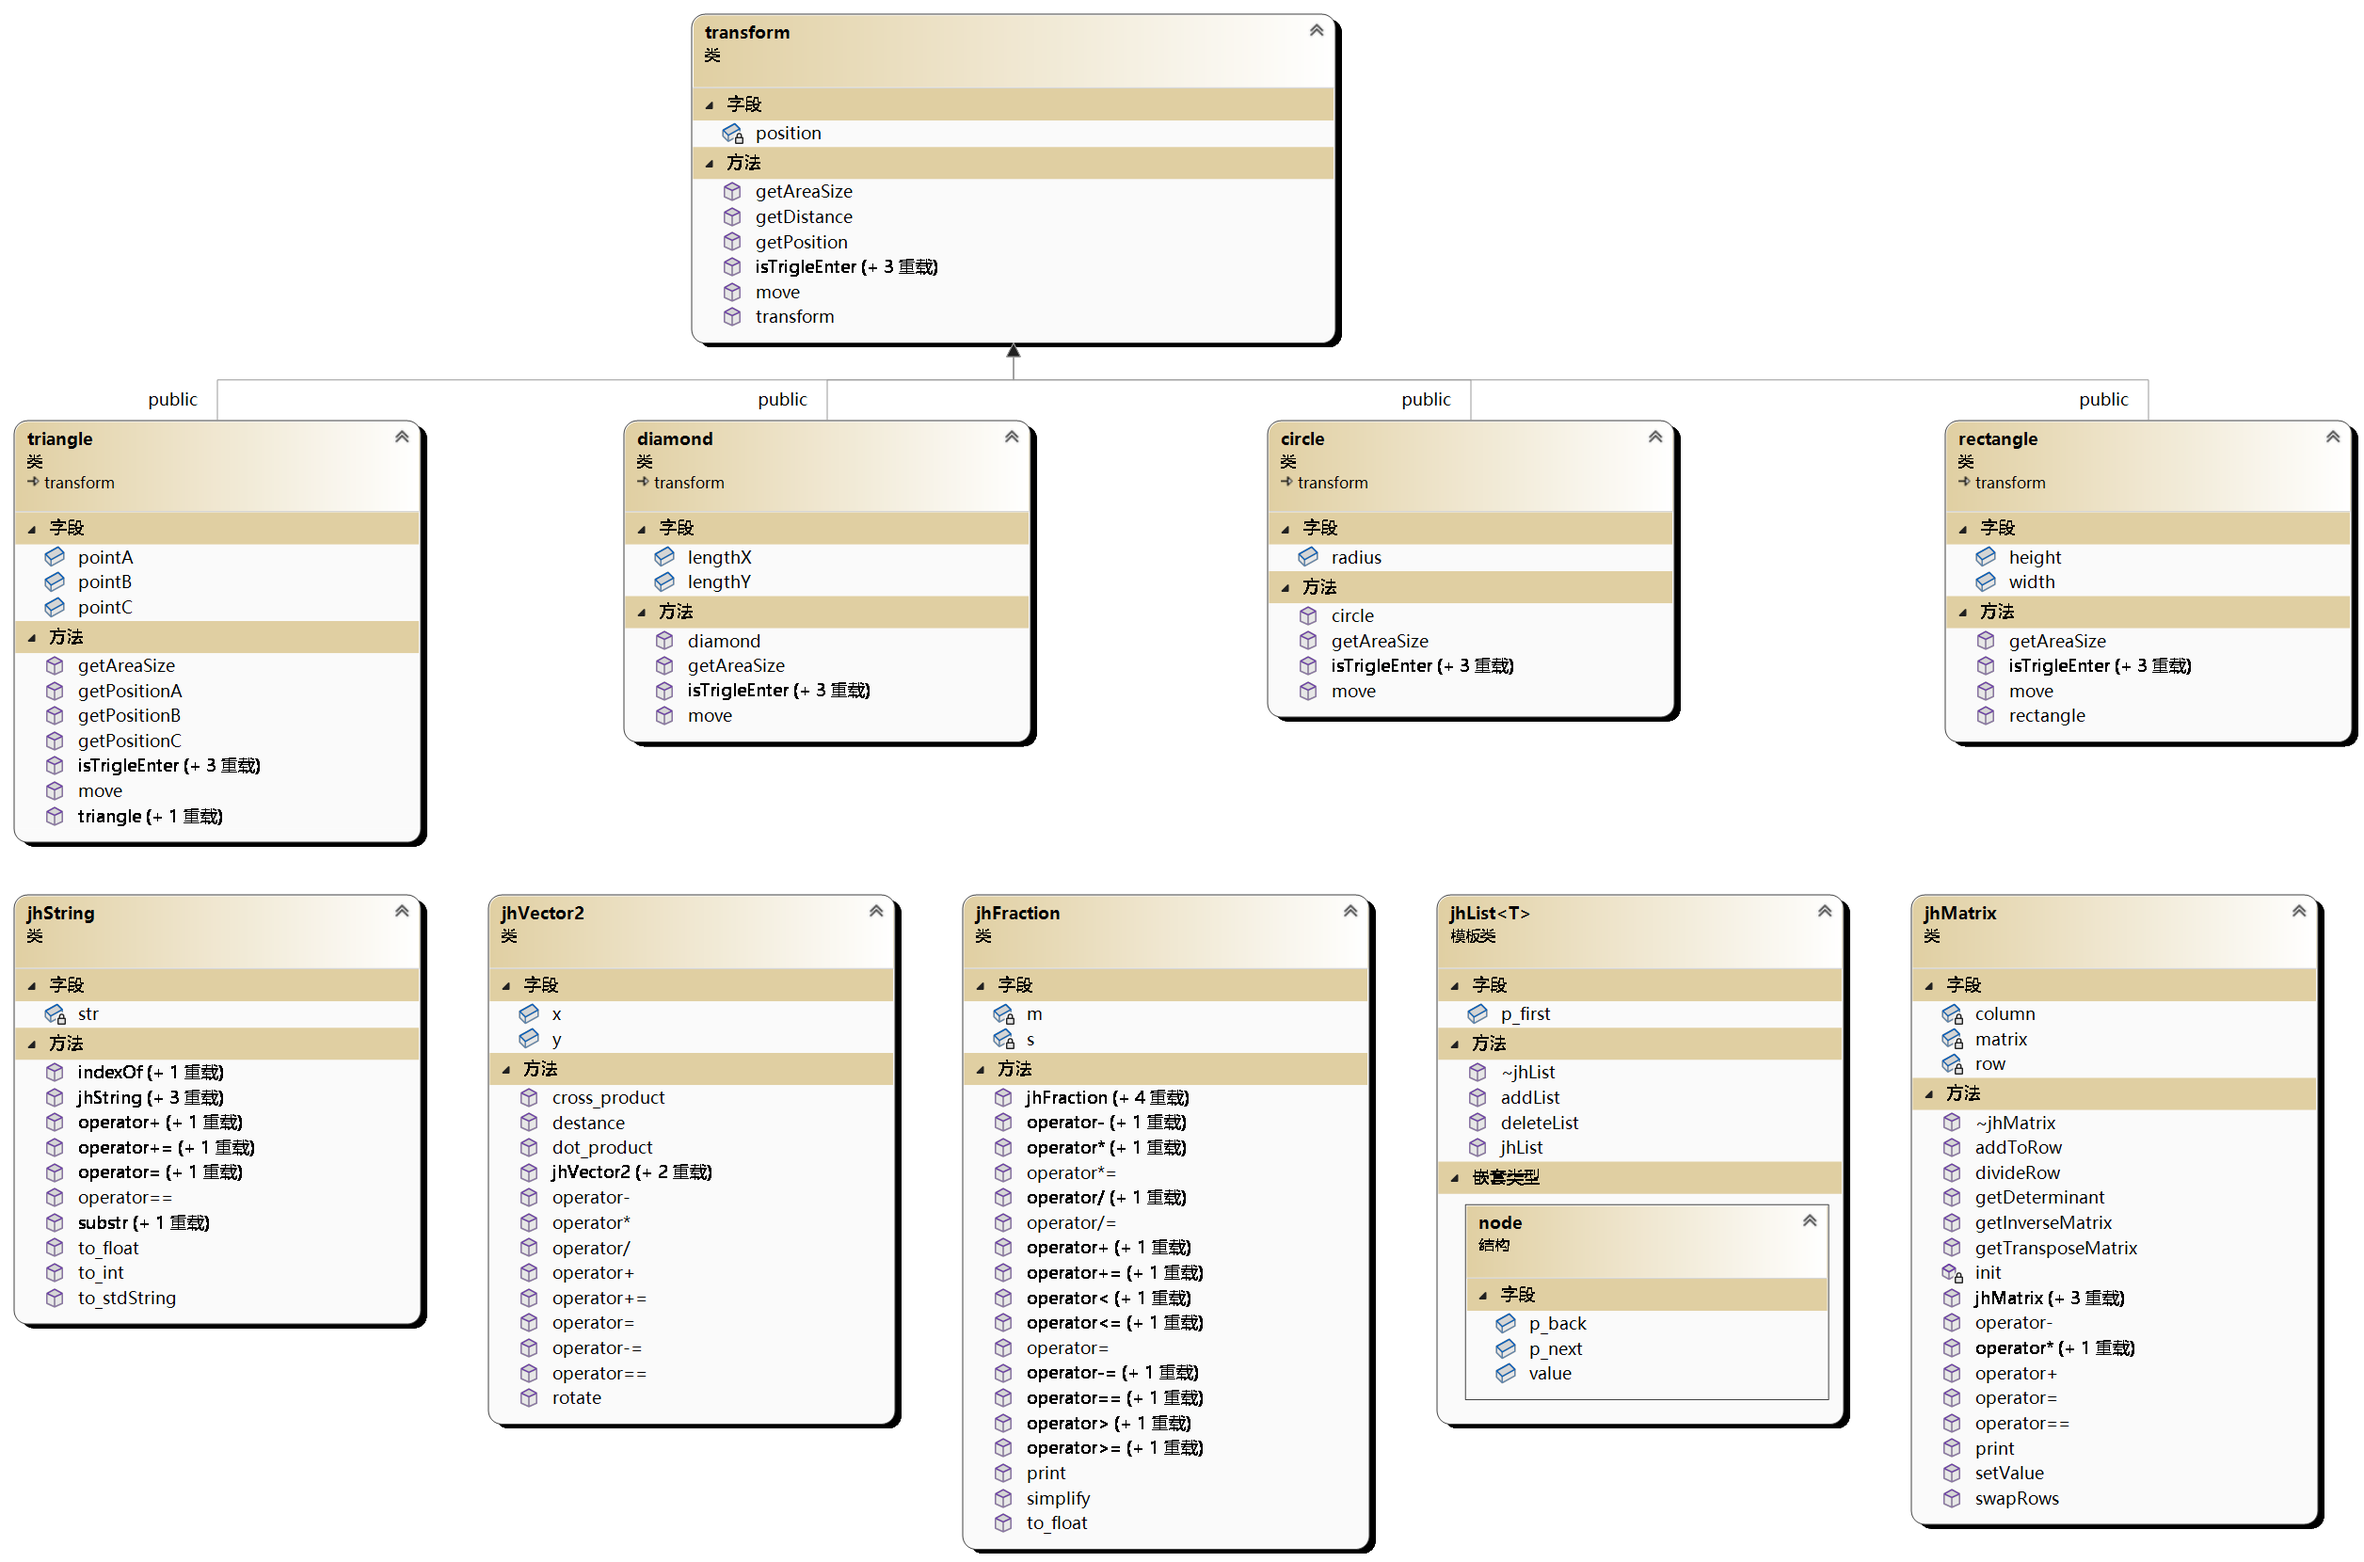
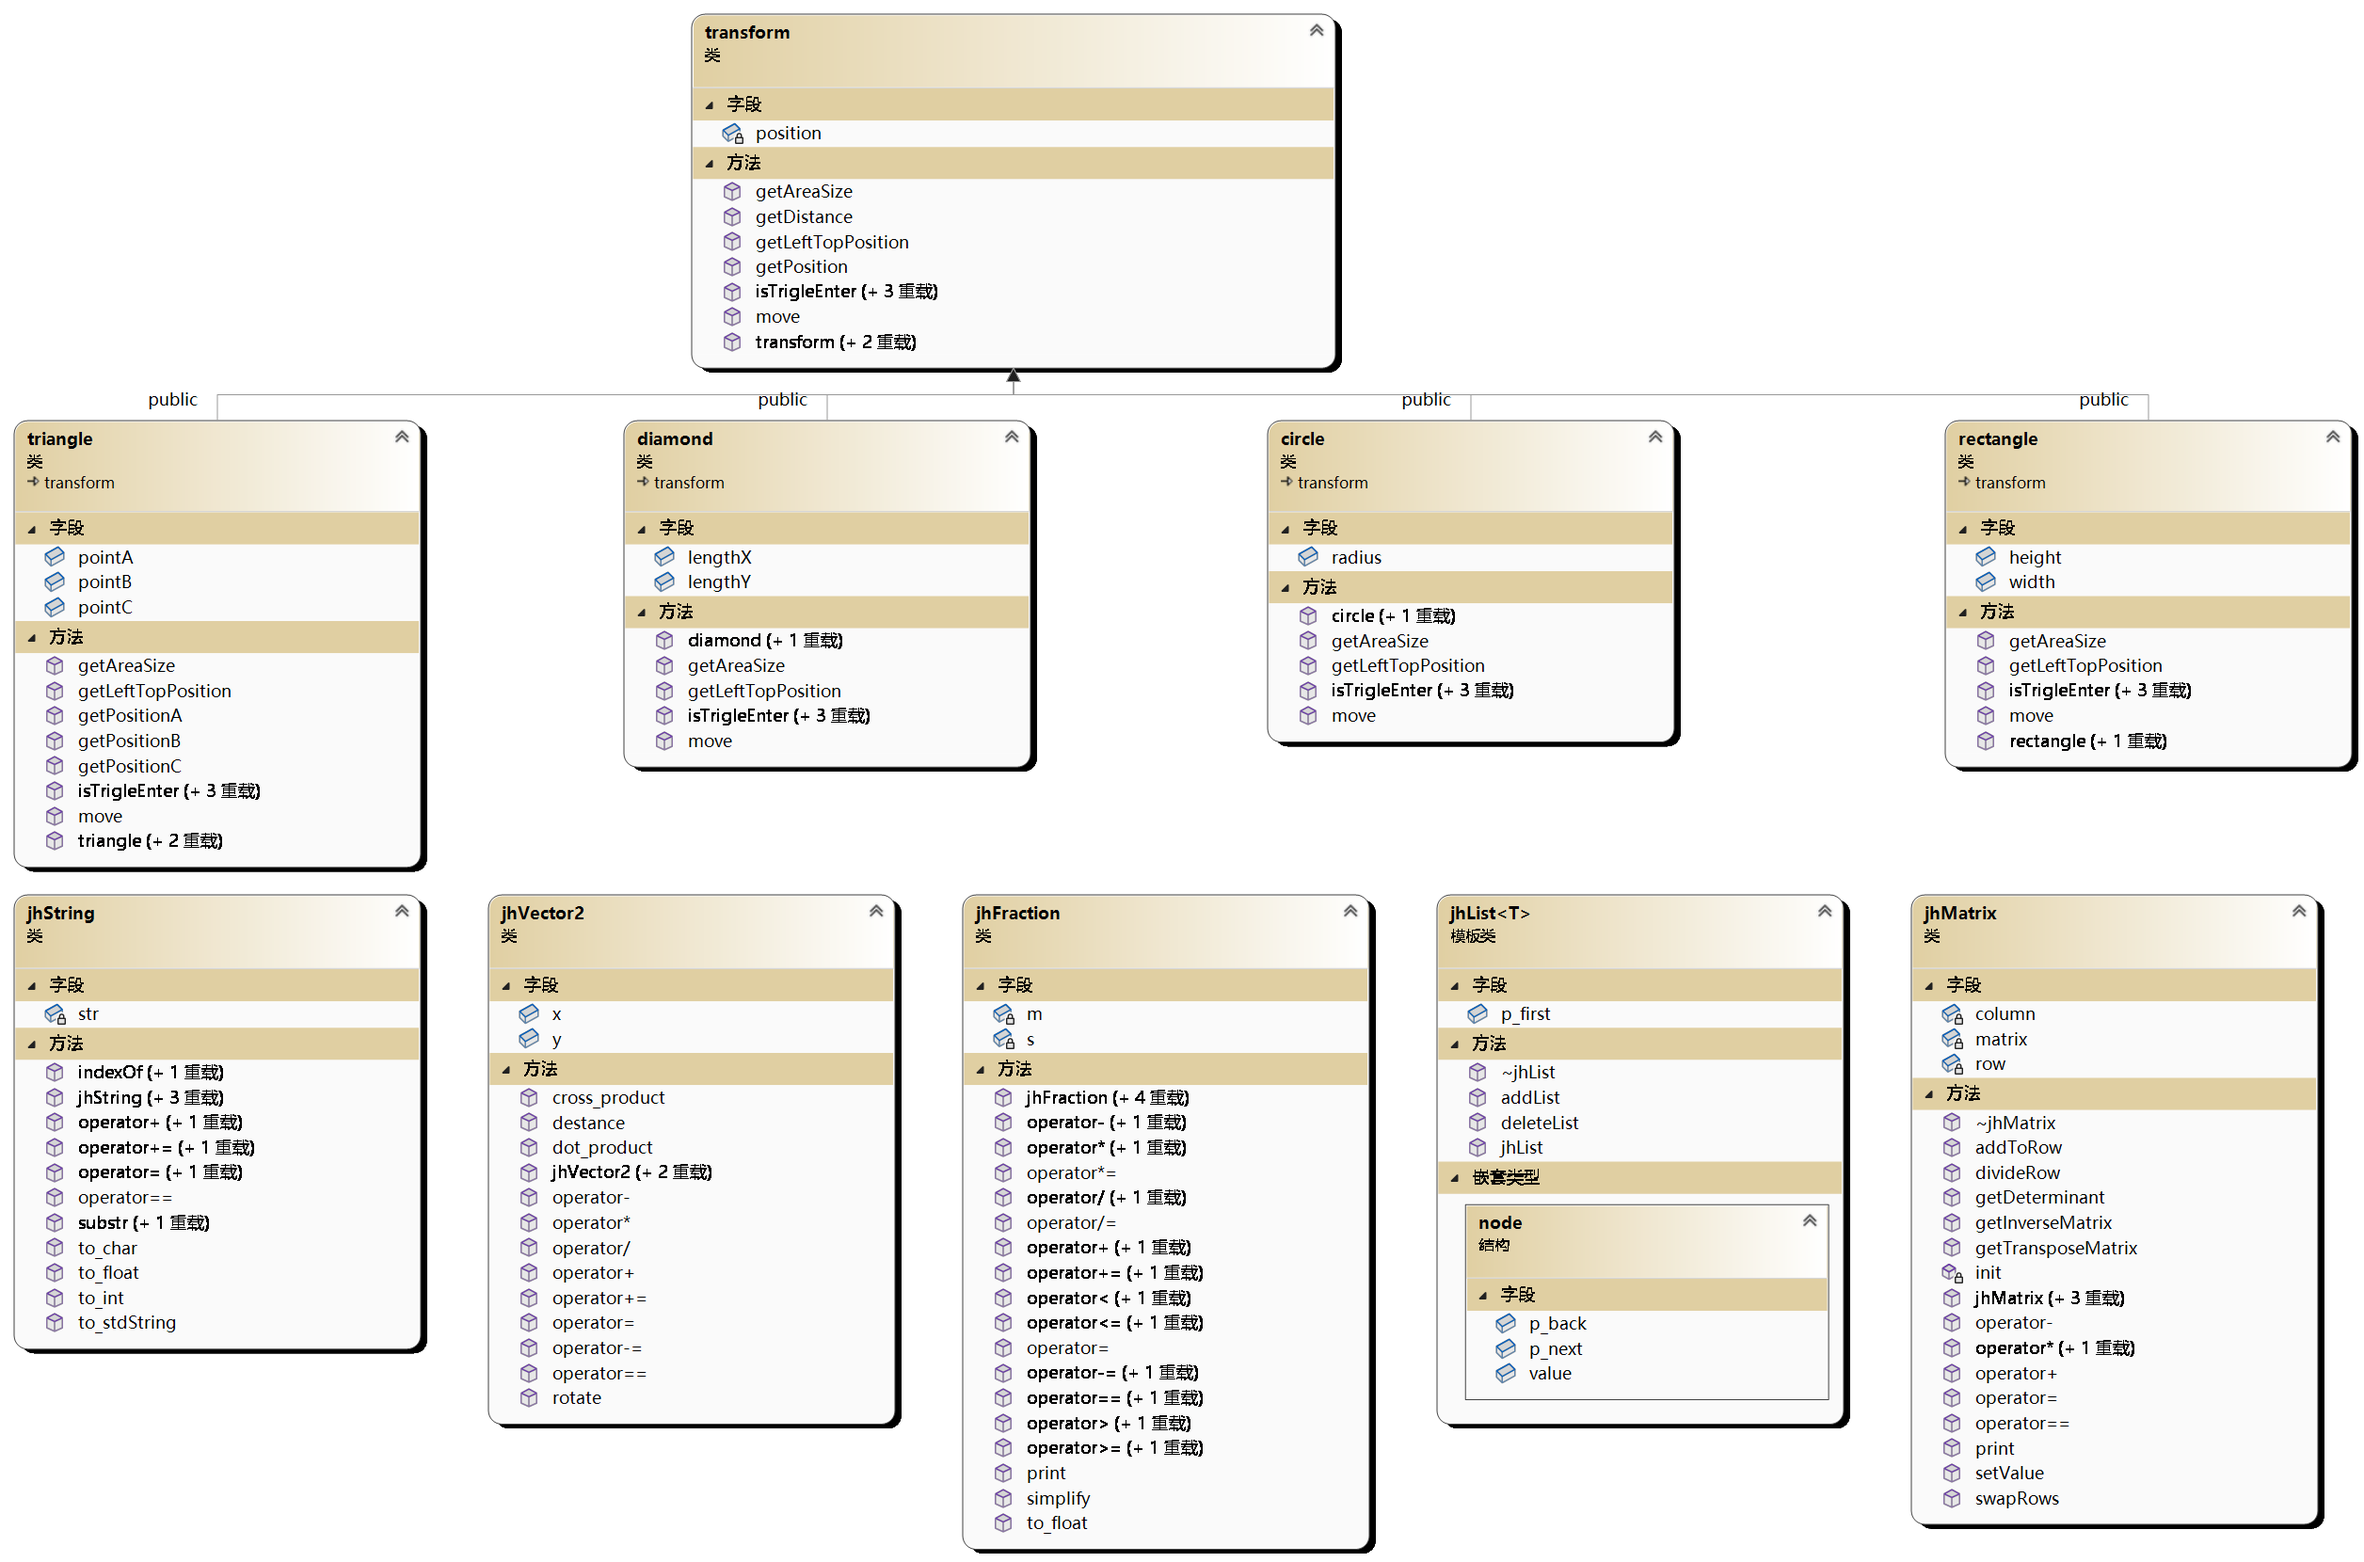
Add files via upload

diff --git a/jhClass.cpp b/jhClass.cpp
@@ -1,6 +1,4 @@
 #include "jhClass.h"
-#include<stdexcept>
-#include<cmath>
 
 ostream& operator<<(ostream& cout,const jhString& str)
 {
@@ -67,6 +65,10 @@ bool jhString::operator==(const jhString& str)
 int jhString::to_int()
 {
 	return atoi(this->str.c_str());
+}
+char* jhString::to_char()
+{
+	return (char*)(this->str.c_str());
 }
 float jhString::to_float()
 {
@@ -500,7 +502,6 @@ template<typename T>
 jhList<T>::jhList()
 {
 	p_first = NULL;
-	node_num = 0;
 }
 
 template<typename T>
@@ -847,6 +848,16 @@ jhObject2D::transform::transform()
 	position = jhVector2(0, 0);
 }
 
+jhObject2D::transform::transform(const transform& other)
+{
+	this->position = other.position;
+}
+
+jhObject2D::transform::transform(jhVector2 position)
+{
+	this->position = position;
+}
+
 jhVector2 jhObject2D::transform::getPosition()
 {
 	return this->position;
@@ -857,9 +868,16 @@ float jhObject2D::transform::getDistance(const transform& other)
 	return this->position.destance(other.position);
 }
 
-jhObject2D::circle::circle(float radius):transform()
+jhObject2D::circle::circle(float radius, jhVector2 position):transform()
 {
 	this->radius = radius;
+	this->position = position;
+}
+
+jhObject2D::circle::circle(const circle& other)
+{
+	this->position = other.position;
+	this->radius = other.radius;
 }
 
 float jhObject2D::circle::getAreaSize()
@@ -870,6 +888,11 @@ float jhObject2D::circle::getAreaSize()
 void jhObject2D::circle::move(jhVector2 dest)
 {
 	this->position = dest;
+}
+
+jhVector2 jhObject2D::circle::getLeftTopPosition()
+{
+	return jhVector2(this->position.x - this->radius, this->position.y - this->radius);
 }
 
 bool jhObject2D::circle::isTrigleEnter(const triangle& other)
@@ -934,6 +957,11 @@ float jhObject2D::rectangle::getAreaSize()
 void jhObject2D::rectangle::move(jhVector2 dest)
 {
 	this->position = dest;
+}
+
+jhVector2 jhObject2D::rectangle::getLeftTopPosition()
+{
+	return jhVector2(this->position.x - this->width / 2, this->position.y - this->height / 2);
 }
 
 bool jhObject2D::rectangle::isTrigleEnter(const triangle& other)
@@ -1006,10 +1034,18 @@ bool jhObject2D::rectangle::isTrigleEnter(const circle& other)
 
 }
 
-jhObject2D::rectangle::rectangle(float width, float height):transform()
+jhObject2D::rectangle::rectangle(float width, float height, jhVector2 position):transform()
 {
 	this->width = width;
 	this->height = height;
+	this->position = position;
+}
+
+jhObject2D::rectangle::rectangle(const rectangle& other)
+{
+	this->position = other.position;
+	this->width = other.width;
+	this->height = other.height;
 }
 
 float jhObject2D::triangle::getAreaSize()
@@ -1176,6 +1212,14 @@ jhObject2D::triangle::triangle(jhVector2 center, float coLength)
 	this->pointC = jhVector2(center.x - coLength * sqrt(3) / 2, center.y - coLength / 2);
 }
 
+jhObject2D::triangle::triangle(const triangle& other)
+{
+	this->position = other.position;
+	this->pointA = other.pointA;
+	this->pointB = other.pointB;
+	this->pointC = other.pointC;
+}
+
 void jhObject2D::triangle::move(jhVector2 dest)
 {
 	jhVector2 offset = dest - this->position;
@@ -1200,6 +1244,13 @@ jhVector2 jhObject2D::triangle::getPositionC()
 	return this->pointC;
 }
 
+jhVector2 jhObject2D::triangle::getLeftTopPosition()
+{
+	float minX = min(this->pointA.x, min(this->pointB.x, this->pointC.x));
+	float minY = min(this->pointA.y, min(this->pointB.y, this->pointC.y));
+	return jhVector2(minX, minY);
+}
+
 float jhObject2D::diamond::getAreaSize()
 {
 	return this->lengthX * this->lengthY / 2;
@@ -1208,6 +1259,11 @@ float jhObject2D::diamond::getAreaSize()
 void jhObject2D::diamond::move(jhVector2 dest)
 {
 	this->position = dest;
+}
+
+jhVector2 jhObject2D::diamond::getLeftTopPosition()
+{
+	return jhVector2(this->position.x - this->lengthX / 2, this->position.y - this->lengthY / 2);
 }
 
 bool jhObject2D::diamond::isTrigleEnter(const triangle& other)
@@ -1282,8 +1338,16 @@ bool jhObject2D::diamond::isTrigleEnter(const circle& other)
 
 }
 
-jhObject2D::diamond::diamond(float lengthX, float lengthY) : transform()
+jhObject2D::diamond::diamond(float lengthX, float lengthY,jhVector2 position) : transform()
 {
 	this->lengthX = lengthX;
 	this->lengthY = lengthY;
+	this->position = position;
+}
+
+jhObject2D::diamond::diamond(const diamond& other)
+{
+	this->position = other.position;
+	this->lengthX = other.lengthX;
+	this->lengthY = other.lengthY;
 }
